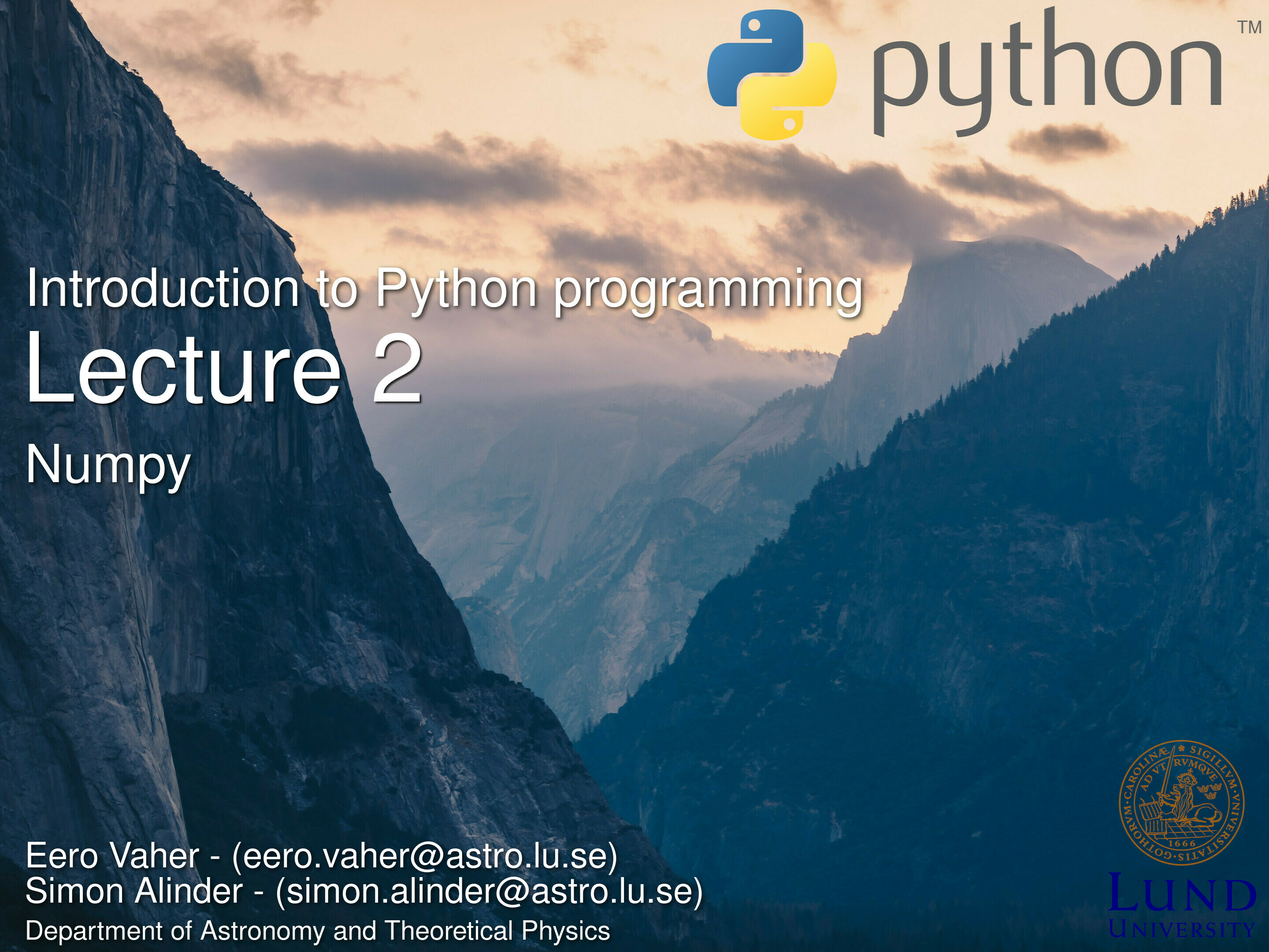
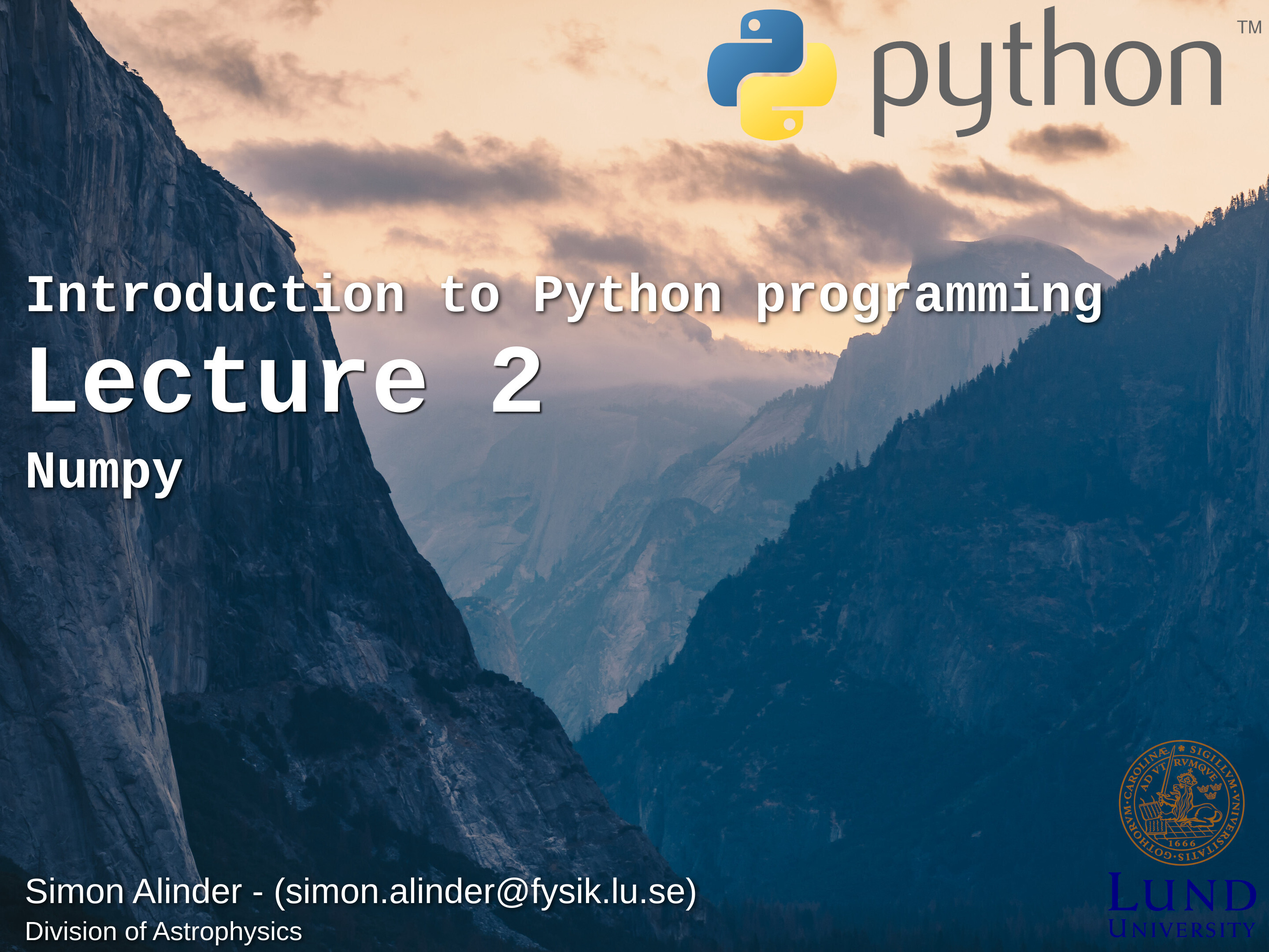
Update script for generating title slides
Simon Alinder is now the only teacher of this course, so Eero was
removed from the list, and title slides were regenerated.

The name of the organization has changed from "Department of Astronomy
and Theoretical Particle Physics" to "Division of Astrophysics" since
the last time the course was given.

Changed the front page generator script to use Liberation font. This
way, we ensure readability because the default font may be bad.
Because this increases complexity and creates the danger that future
users will not have this font, a README was added with some
explanations.

It seems some changes were done automatically to the bash script.

Changed region(s): [[0.0, 0.2792, 0.875, 0.4343], [0.0, 0.8685, 0.5625, 0.9926], [0.0, 0.4653, 0.1562, 0.5273]]

diff --git a/generate_front/README.md b/generate_front/README.md
@@ -1,0 +1,5 @@
+To generate new title slide images, run the bash script in this folder.
+The names of the teachers should be listed in the 'teachers' variable (strings separated by spaces) and their email addresses in the 'contact' variable (space separated).
+This requires ImageMagick (on my Linux computer at least) to run.
+There could possibly be a problem with the specified font not being available to you. Either install it or change the script to one that you have access to. At time of writing the fonts are of the Liberation family which are open source and should be available on all operating systems.
+To list what fonts are available to use, run 'magick -list font'.
